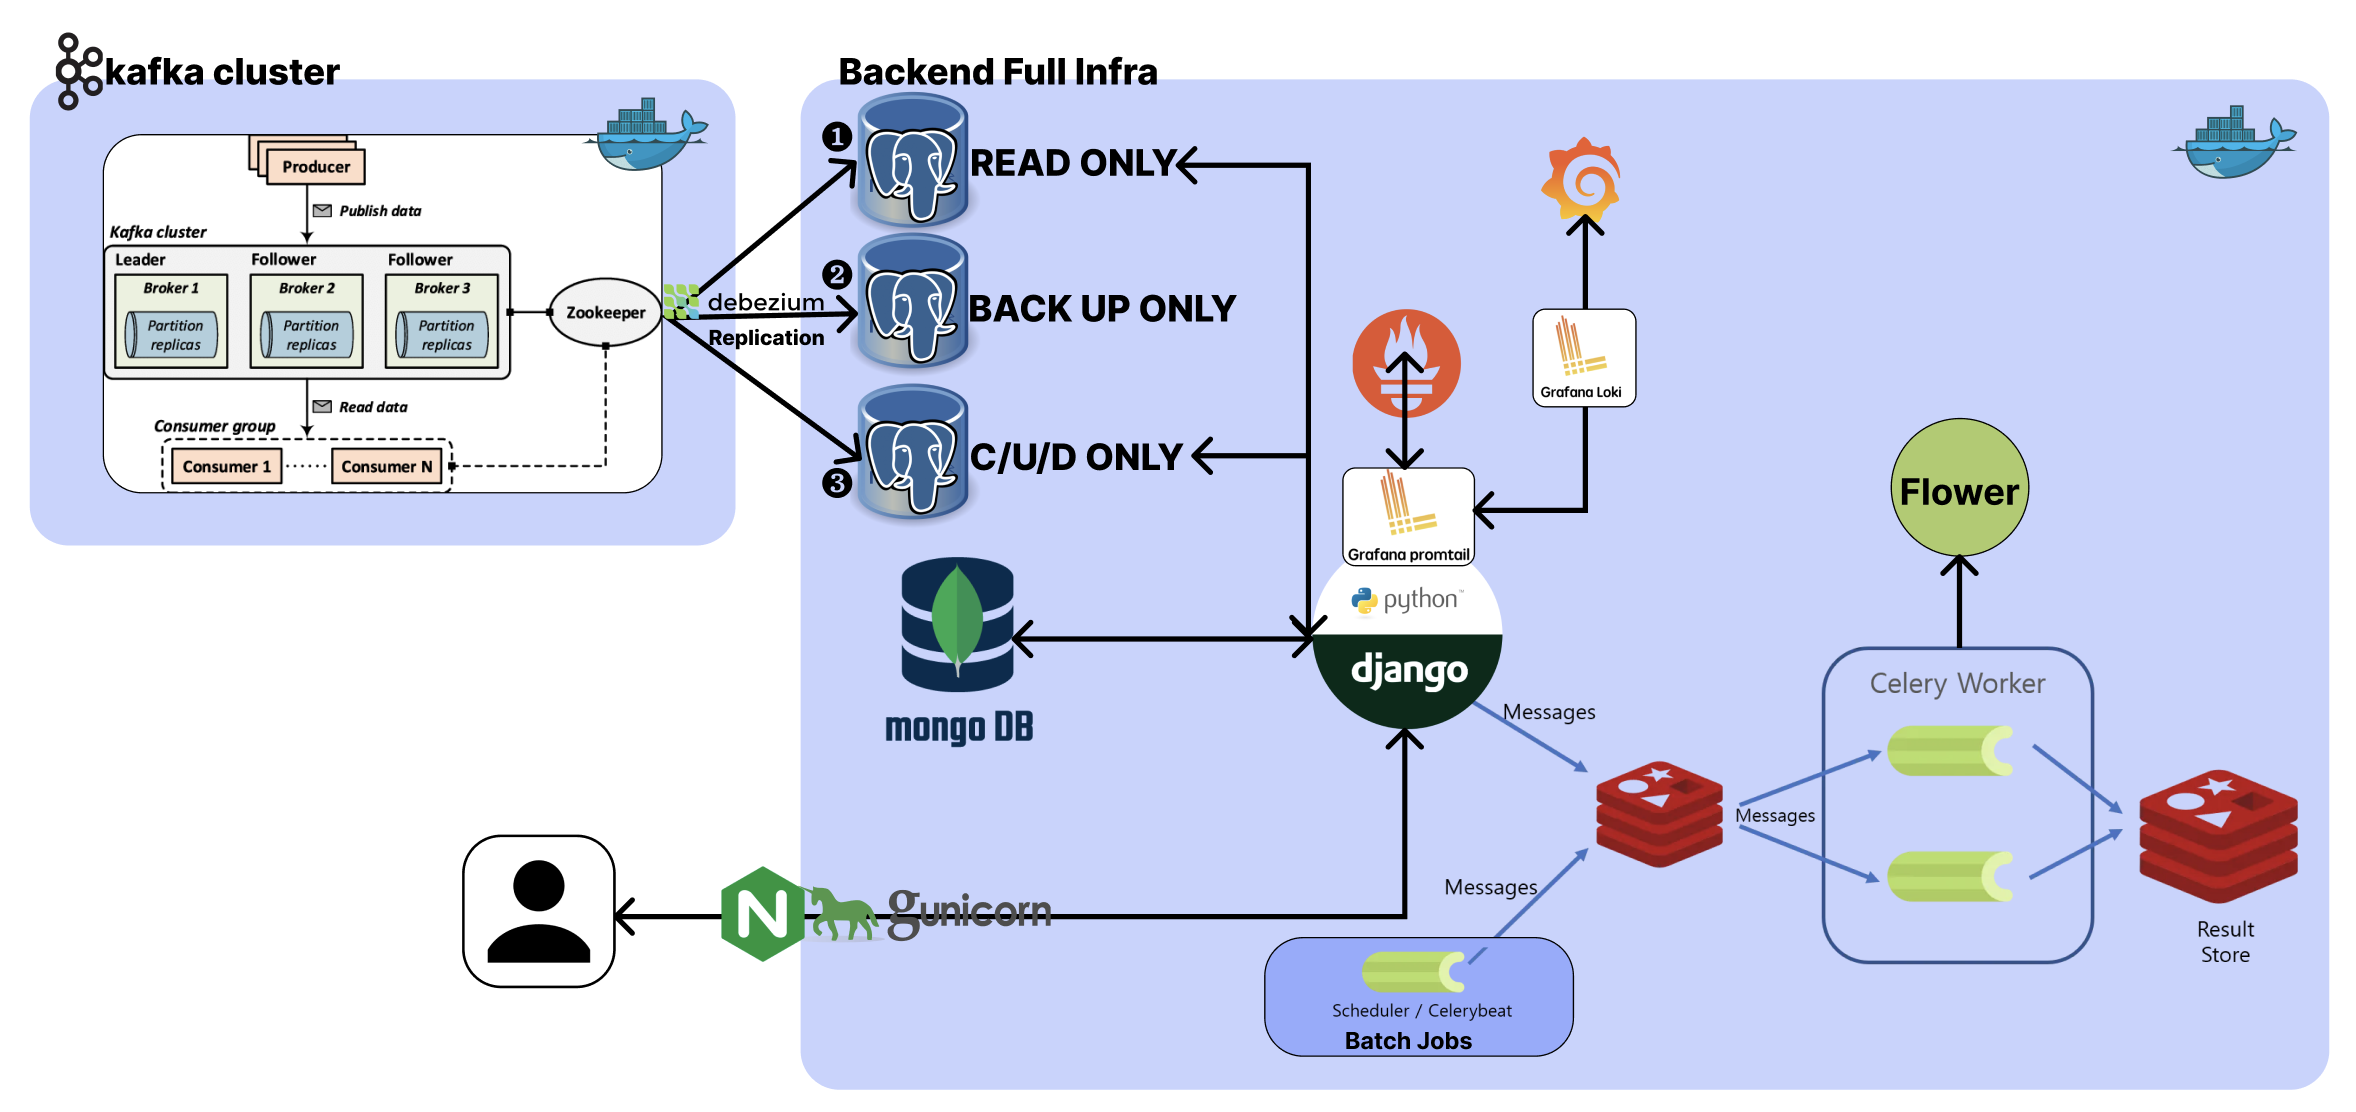
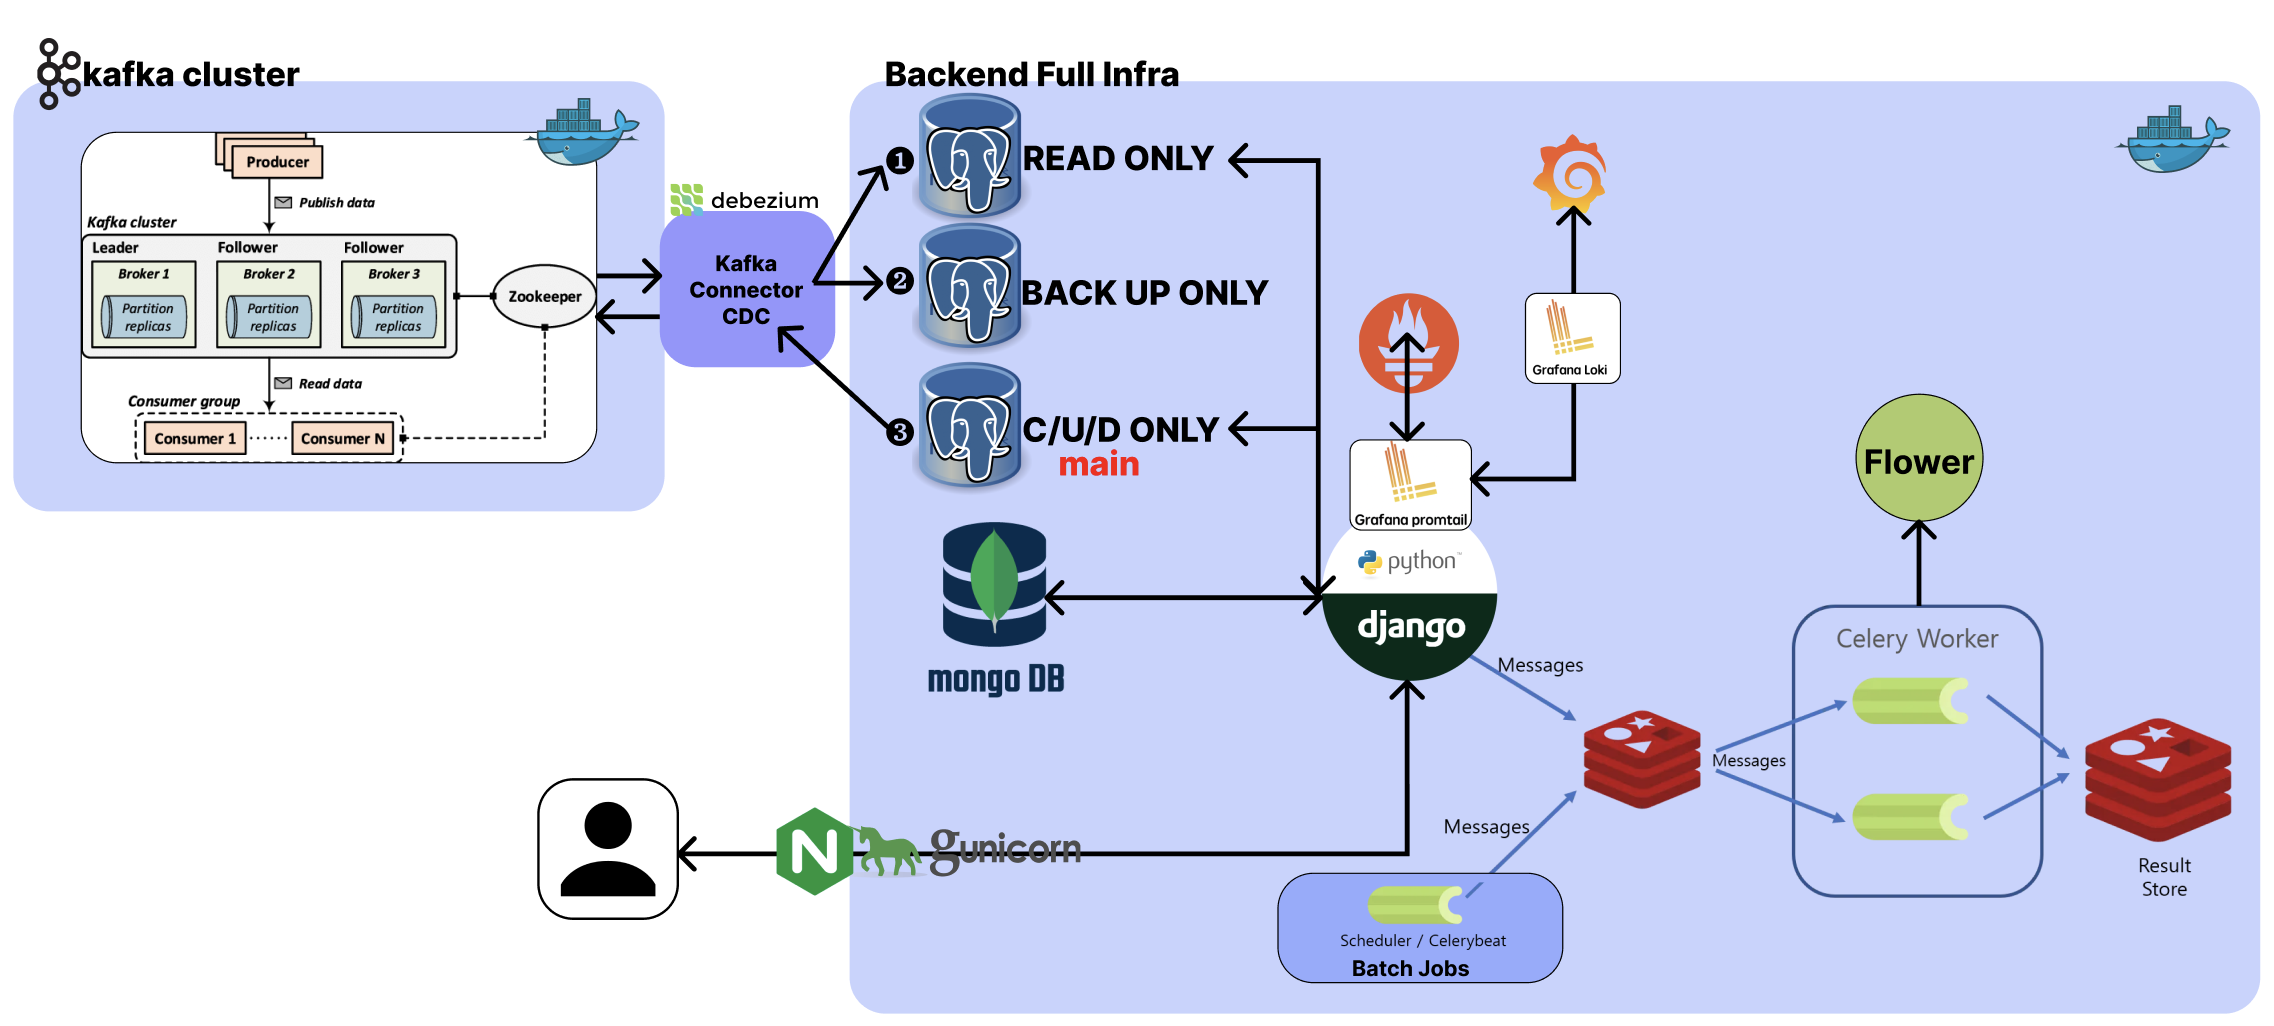
modify: debezium set up

Changed region(s): [[0.0, 0.0312, 0.9991, 0.9981], [0.7806, 0.3743, 0.8742, 0.5302], [0.6557, 0.1248, 0.7181, 0.2183]]

diff --git a/debezium/cdc_test.py b/debezium/cdc_test.py
@@ -1,0 +1,65 @@
+from kafka import KafkaConsumer, KafkaAdminClient
+from kafka.errors import TopicAuthorizationFailedError
+
+
+class KafkaCon:
+    def __init__(self, brokers: list) -> None:
+        self.brokers = brokers
+        self.admin_client = KafkaAdminClient(bootstrap_servers=brokers)
+
+    def find_topics_with_prefix(self, prefix: str = None) -> list:
+        """prefix로 시작하는 토픽을 찾습니다."""
+        topic_metadata = self.admin_client.list_topics()
+        if not prefix:
+            return topic_metadata
+
+        topics_with_prefix = []
+        for topic in topic_metadata:
+            if topic.startswith(prefix):
+                topics_with_prefix.append(topic)
+        return topics_with_prefix
+
+    def get_topic_metadata(self, topic: str):
+        """토픽의 메타데이터 조회를 위한 함수를 정의합니다."""
+        try:
+            topic_metadata = self.admin_client.describe_topics([topic])
+            return topic_metadata
+        except TopicAuthorizationFailedError:
+            print(
+                f"Topic '{topic}' does not exist or you don't have permission to access it."
+            )
+            return None
+
+
+class MessageConsumer(KafkaCon):
+    def __init__(self, brokers, topic: str) -> None:
+        super().__init__(brokers)
+        self.consumer = KafkaConsumer(
+            topic,  # Topic to consume
+            bootstrap_servers=self.brokers,
+            value_deserializer=lambda x: x.decode(
+                "utf-8"
+            ),  # Decode message value as utf-8
+            group_id="psql-cdc",  # Consumer group ID
+            auto_offset_reset="earliest",  # Start consuming from earliest available message
+            enable_auto_commit=True,  # Commit offsets automatically
+        )
+
+    def receive_message(self, pattern: str = None):
+        if pattern:
+            self.consumer.subscribe(pattern=pattern)
+
+        try:
+            for message in self.consumer:
+                print(message)
+        except Exception as exc:
+            raise exc
+
+
+# 브로커와 토픽명을 지정한다.
+brokers = ["localhost:9092", "localhost:9093", "localhost:9094"]
+topic = "test_checkedcrn"
+cs = MessageConsumer(brokers, topic)
+print(cs.find_topics_with_prefix())
+print(cs.get_topic_metadata(topic))
+cs.receive_message()
